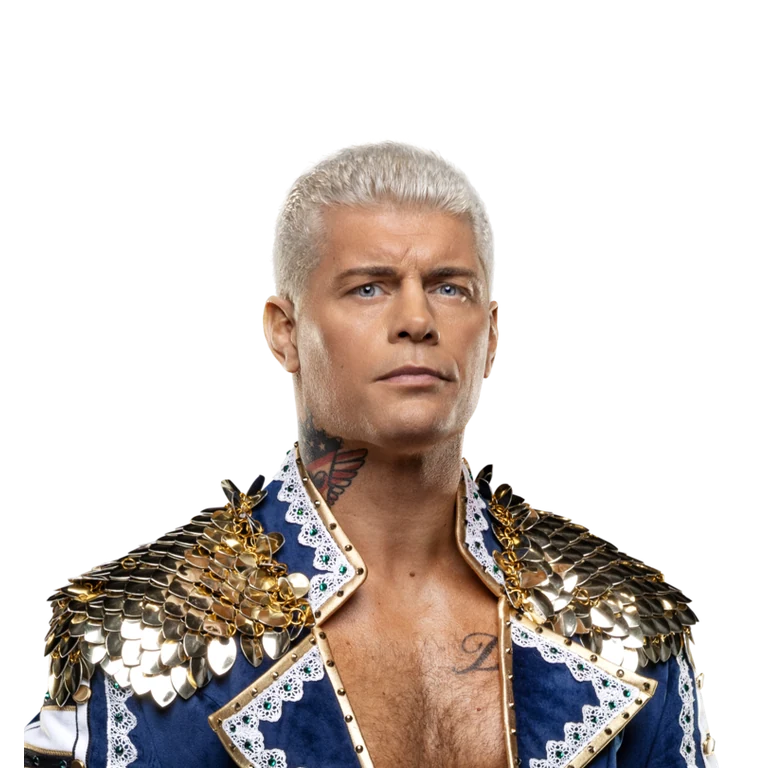
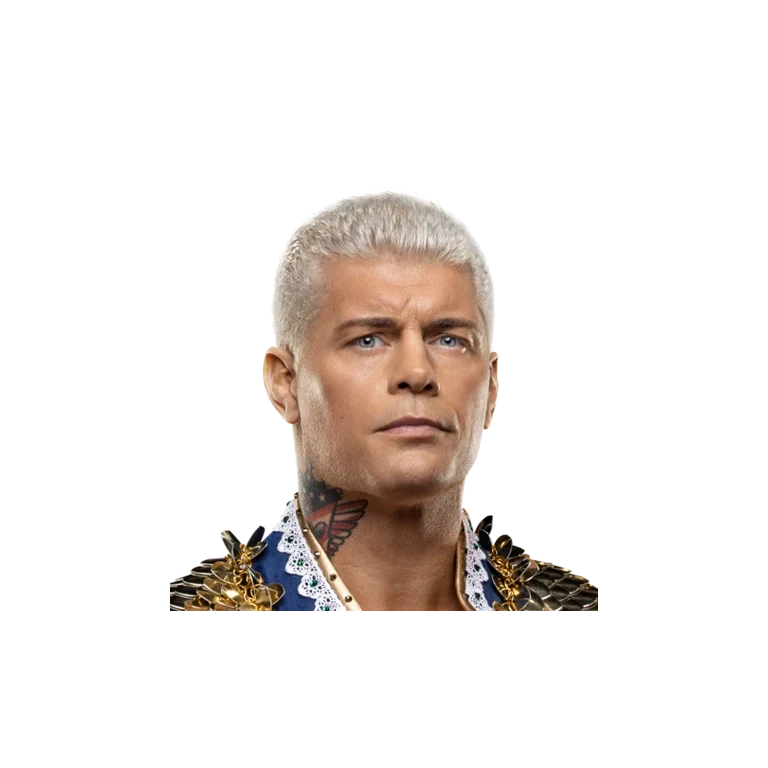
v6

diff --git a/game.js b/game.js
@@ -58,14 +58,30 @@ function playability(k,f){
 }
 function sortHand(f){
   const order=f.hand.map((k,i)=>({k,i,p:playability(k,f).ok}));
-  order.sort((a,b)=>Number(b.p)-Number(a.p)||a.i-b.i);f.hand=order.map(x=>x.k);
+  order.sort((a,b)=>{
+    const ap=Number(a.p),bp=Number(b.p); if(bp!==ap)return bp-ap;
+    const ac=C[a.k],bc=C[b.k];
+    const apr=ap&&ac?.finisher?3:ap&&ac?.tags?.includes('signature')?2:0;
+    const bpr=bp&&bc?.finisher?3:bp&&bc?.tags?.includes('signature')?2:0;
+    return bpr-apr||a.i-b.i;
+  });f.hand=order.map(x=>x.k);
 }
-function useCard(f,index){const key=f.hand.splice(index,1)[0];f.discard.push(key);if(C[key]?.once)f.usedOnce.add(key);drawCard(f);return key}
+function useCard(f,index){const key=f.hand.splice(index,1)[0];f.discard.push(key);if(C[key]?.once)f.usedOnce.add(key);if(f.hand.length<5)drawCard(f);return key}
 function defenderDraw(defender,attackKey){
   const forceReversal=opponentOf(defender).chain>=3;
   const pref=forceReversal?(k=>beginsWithCounter(k,attackKey)):null;
-  drawCard(defender,pref);sortHand(defender);
+  if(defender.hand.length<5)drawCard(defender,pref);sortHand(defender);
 }
+
+function animatePlayedCard(key,owner,done){
+  const c=C[key],stage=document.createElement('div');
+  stage.className=`playAnimation owner-${owner} type-${String(c.type||'other').toLowerCase()} ${c.finisher?'is-finisher':c.tags?.includes('signature')?'is-signature':''}`;
+  stage.innerHTML=`${c.image?`<div class="playAnimationArt" style="background-image:url('${c.image}')"></div>`:''}<strong>${c.name}</strong>`;
+  document.body.appendChild(stage);
+  requestAnimationFrame(()=>stage.classList.add('active'));
+  setTimeout(()=>{stage.classList.add('land');setTimeout(()=>{stage.remove();done?.()},220)},520);
+}
+
 function pushPile(key,owner,status='pending'){state.pile.push({key,owner,status,id:Date.now()+Math.random()});state.pile=state.pile.slice(-6);renderPile()}
 function setPileStatus(status){if(state.pile.length)state.pile[state.pile.length-1].status=status;renderPile()}
 function startMatch(playerId){
@@ -88,11 +104,14 @@ function flashSuccess(){setPileStatus('success');setTimeout(()=>{if(!state?.ende
 function matchingReversalIndex(defender,attackKey){return defender.hand.findIndex(k=>beginsWithCounter(k,attackKey)&&basicPlayability(k,defender).ok)}
 function playerAttack(index){
   if(state.ended||state.possession!=='player')return;sortHand(state.player);const p=playability(state.player.hand[index],state.player);if(!p.ok){say(p.why);return}
-  const key=useCard(state.player,index),c=C[key];pushPile(key,'player','pending');sortHand(state.player);renderHand();
-  if(isAction(key)){const text=resolveCard(state.player,state.cpu,key);flashSuccess();say(text);renderMatch();return}
-  const ri=matchingReversalIndex(state.cpu,key);
-  if(ri>=0){const rkey=useCard(state.cpu,ri);setTimeout(()=>{pushPile(rkey,'cpu','reversal');const text=resolveCard(state.cpu,state.player,rkey,{reversal:true});transferPossession('cpu',text)},350);return}
-  state.player.chain++;const text=resolveCard(state.player,state.cpu,key);flashSuccess();say(text);afterSuccessfulMove(state.player,state.cpu);renderMatch();
+  const key=useCard(state.player,index);sortHand(state.player);renderHand();
+  animatePlayedCard(key,'player',()=>{
+    if(state.ended)return;const c=C[key];pushPile(key,'player','pending');
+    if(isAction(key)){const text=resolveCard(state.player,state.cpu,key);flashSuccess();say(text);renderMatch();return}
+    const ri=matchingReversalIndex(state.cpu,key);
+    if(ri>=0){const rkey=useCard(state.cpu,ri);animatePlayedCard(rkey,'cpu',()=>{pushPile(rkey,'cpu','reversal');const text=resolveCard(state.cpu,state.player,rkey,{reversal:true});transferPossession('cpu',text)});return}
+    state.player.chain++;const text=resolveCard(state.player,state.cpu,key);flashSuccess();say(text);afterSuccessfulMove(state.player,state.cpu);renderMatch();
+  });
 }
 function afterSuccessfulMove(actor,opp){
   if(state.ended)return;
@@ -106,16 +125,19 @@ function cpuSequence(){
   if(!options.length){drawCard(state.cpu,k=>(C[k].cost||0)===0&&!isReversal(k));sortHand(state.cpu);options=state.cpu.hand.map((k,i)=>({k,i,p:playability(k,state.cpu)})).filter(x=>x.p.ok)}
   if(!options.length){transferPossession('player',`${W[state.cpu.id].shortName} cannot continue the sequence.`);return}
   options.forEach(o=>{const c=C[o.k];o.score=(c.damage||0)*1.5+(c.momentum||0)+Math.random()*10+(c.finisher&&state.player.health<45?70:0)-(isAction(o.k)&&state.cpu.actionUsed?100:0)});options.sort((a,b)=>b.score-a.score);
-  const pick=options[0],key=useCard(state.cpu,pick.i);pushPile(key,'cpu','pending');sortHand(state.cpu);
-  if(isAction(key)){const text=resolveCard(state.cpu,state.player,key);flashSuccess();say(text);renderMatch();cpuTimer=setTimeout(cpuSequence,600);return}
-  state.pendingAttack={key};const has=matchingReversalIndex(state.player,key)>=0;say(`${W[state.cpu.id].shortName} plays ${C[key].name}.${has?' Play a matching reversal.':''}`);renderMatch();if(!has)cpuTimer=setTimeout(resolveCpuAttack,700);
+  const pick=options[0],key=useCard(state.cpu,pick.i);sortHand(state.cpu);
+  animatePlayedCard(key,'cpu',()=>{
+    if(state.ended)return;pushPile(key,'cpu','pending');
+    if(isAction(key)){const text=resolveCard(state.cpu,state.player,key);flashSuccess();say(text);renderMatch();cpuTimer=setTimeout(cpuSequence,600);return}
+    state.pendingAttack={key};const has=matchingReversalIndex(state.player,key)>=0;say(`${W[state.cpu.id].shortName} plays ${C[key].name}.${has?' Play a matching reversal.':''}`);renderMatch();if(!has)cpuTimer=setTimeout(resolveCpuAttack,700);
+  });
 }
 function resolveCpuAttack(){
   if(!state.pendingAttack||state.ended)return;const key=state.pendingAttack.key;state.pendingAttack=null;state.cpu.chain++;const text=resolveCard(state.cpu,state.player,key);flashSuccess();say(text);afterSuccessfulMove(state.cpu,state.player);renderMatch();if(!state.ended&&!shouldPin(state.cpu,state.player))cpuTimer=setTimeout(cpuSequence,650)
 }
 function playerReverse(index){
   if(!state.pendingAttack||state.possession!=='cpu')return;sortHand(state.player);const p=playability(state.player.hand[index],state.player);if(!p.ok)return;
-  const key=useCard(state.player,index);pushPile(key,'player','reversal');state.pendingAttack=null;const text=resolveCard(state.player,state.cpu,key,{reversal:true});transferPossession('player',text)
+  const key=useCard(state.player,index);state.pendingAttack=null;animatePlayedCard(key,'player',()=>{pushPile(key,'player','reversal');const text=resolveCard(state.player,state.cpu,key,{reversal:true});transferPossession('player',text)})
 }
 function transferPossession(to,reason){
   clearTimeout(cpuTimer);state.possession=to;state.pendingAttack=null;state.player.chain=0;state.cpu.chain=0;state.player.actionUsed=false;state.cpu.actionUsed=false;if(reason)say(reason);
@@ -134,7 +156,7 @@ function endMatch(winner){clearTimeout(cpuTimer);state.ended=true;const loser=op
 function say(t){state.log.unshift(t);state.log=state.log.slice(0,14);$('#message').textContent=t;renderLog()}
 function renderLog(){$('#log').innerHTML=state.log.map(t=>`<div>${t}</div>`).join('')}
 function cardMarkup(k,i){
-  const c=C[k],p=playability(k,state.player),cls=`gameCard type-${String(c.type||'other').toLowerCase()} ${p.ok?'':'unplayable'} ${c.image?'hasArt':''}`;
+  const c=C[k],p=playability(k,state.player),cls=`gameCard type-${String(c.type||'other').toLowerCase()} ${p.ok?'':'unplayable'} ${c.image?'hasArt':''} ${c.finisher?'is-finisher':c.tags?.includes('signature')?'is-signature':''}`;
   const stat=(label,val)=>`<div class="cardStat"><span>${label}</span><b>${val}</b></div>`;
   return `<button class="${cls}" data-card="${i}" ${p.ok?'':'disabled'}>${c.image?`<div class="cardArt" style="background-image:url('${c.image}')"></div>`:''}<h4>${c.name}</h4>${!p.ok?`<div class="requirement">${p.why}</div>`:''}<div class="cardStats">${stat('DMG',c.damage||0)}${stat('MOM',(c.momentum||0)>=0?`+${c.momentum||0}`:c.momentum)}${stat('COST',c.cost||0)}</div></button>`;
 }

diff --git a/index.html b/index.html
@@ -1,5 +1,5 @@
-<!doctype html><html lang="en"><head><meta charset="utf-8"><meta name="viewport" content="width=device-width,initial-scale=1,viewport-fit=cover"><meta name="theme-color" content="#0b0d11"><title>LEGACY Wrestling Cards</title><link rel="manifest" href="manifest.webmanifest"><link rel="icon" href="favicon.ico"><link rel="stylesheet" href="styles.css?v=0.6.0"></head><body>
-<div id="app"><section id="menu" class="screen active"><img class="logo" src="assets/branding/lpw-logo-main-menu-1200.webp" alt="LEGACY Wrestling Cards"><h1>WRESTLING CARDS</h1><p class="lead">A tactical card-based wrestling match.</p><button id="startBtn" class="primary">Exhibition 1v1</button><div class="version">v0.6.0</div></section>
+<!doctype html><html lang="en"><head><meta charset="utf-8"><meta name="viewport" content="width=device-width,initial-scale=1,viewport-fit=cover"><meta name="theme-color" content="#0b0d11"><title>LEGACY Wrestling Cards</title><link rel="manifest" href="manifest.webmanifest"><link rel="icon" href="favicon.ico"><link rel="stylesheet" href="styles.css?v=0.6.1"></head><body>
+<div id="app"><section id="menu" class="screen active"><img class="logo" src="assets/branding/lpw-logo-main-menu-1200.webp" alt="LEGACY Wrestling Cards"><h1>WRESTLING CARDS</h1><p class="lead">A tactical card-based wrestling match.</p><button id="startBtn" class="primary">Exhibition 1v1</button><div class="version">v0.6.1</div></section>
 <section id="select" class="screen"><header><button class="ghost" data-back="menu">← Back</button><h2>Choose Your Wrestler</h2></header><div id="roster" class="roster"></div></section>
 <section id="match" class="screen"><header class="matchHeader"><button id="quitBtn" class="ghost">Quit</button><div id="phaseBadge" class="phase">Opening</div><div id="turnLabel">Your turn</div></header><div class="arena">
 <div class="fighter player"><img id="playerPortrait"><div><h2 id="playerName"></h2><div class="meterRow"><span>Health</span><b id="playerHealthText"></b></div><div class="meter"><i id="playerHealthBar"></i></div><div class="meterRow"><span>Momentum</span><b id="playerMomentumText"></b></div><div class="meter momentum"><i id="playerMomentumBar"></i></div></div></div>
@@ -7,4 +7,4 @@
 <div class="fighter cpu"><img id="cpuPortrait"><div><h2 id="cpuName"></h2><div class="meterRow"><span>Health</span><b id="cpuHealthText"></b></div><div class="meter"><i id="cpuHealthBar"></i></div><div class="meterRow"><span>Momentum</span><b id="cpuMomentumText"></b></div><div class="meter momentum"><i id="cpuMomentumBar"></i></div></div></div></div>
 <div id="message" class="message"></div><div class="pileZone"><div id="playedPile" class="playedPile"><div class="pileEmpty">Played pile</div></div></div><div class="handHeader"><div><h3 id="handTitle">Your Attack</h3><p id="handHelp">Keep playing until your opponent reverses you.</p></div><div class="handActions"><button id="pinBtn" class="primary compact" hidden>Pin / Pass</button><button id="redrawBtn" class="ghost">Keep Hand</button></div></div><div id="hand" class="hand"></div><details class="logWrap"><summary>Match Feed</summary><div id="log" class="log"></div></details></section>
 <section id="result" class="screen"><div class="resultCard"><img id="winnerPortrait"><div class="eyebrow">Match Result</div><h1 id="winnerName"></h1><p id="resultSummary"></p><div id="rating" class="rating"></div><button id="rematchBtn" class="primary">Rematch</button><button class="ghost" data-back="menu">Main Menu</button></div></section></div>
-<script src="data.js?v=0.6.0"></script><script src="game.js?v=0.6.0"></script><script src="update-manager.js?v=0.6.0"></script></body></html>
+<script src="data.js?v=0.6.1"></script><script src="game.js?v=0.6.1"></script><script src="update-manager.js?v=0.6.1"></script></body></html>

diff --git a/styles.css b/styles.css
@@ -352,3 +352,33 @@
   #match .gameCard h4{font-size:.86rem}
   #match .gameCard .cardStats{grid-template-columns:repeat(3,1fr)}
 }
+
+/* v0.6.1 premium mobile presentation */
+.gameCard.is-signature{box-shadow:0 0 0 1px #64c9ff88,0 0 22px #2b8fff80,0 12px 28px #000b}
+.gameCard.is-finisher{box-shadow:0 0 0 1px #ffd65a99,0 0 28px #ffc933b8,0 12px 30px #000c;animation:finisherPulse 1.55s ease-in-out infinite}
+@keyframes finisherPulse{50%{filter:brightness(1.16);box-shadow:0 0 0 2px #ffe47a,0 0 38px #ffc400d6,0 12px 30px #000c}}
+.playAnimation{position:fixed;z-index:9999;left:50%;top:54%;width:min(62vw,310px);aspect-ratio:5/7;transform:translate(-50%,85vh) scale(.75) rotate(-5deg);opacity:0;border:4px solid #596273;border-radius:20px;background:linear-gradient(145deg,#252d3a,#0b0e14);overflow:hidden;box-shadow:0 30px 80px #000;pointer-events:none;transition:transform .5s cubic-bezier(.2,.9,.2,1),opacity .22s}
+.playAnimation.owner-cpu{transform:translate(-50%,-85vh) scale(.75) rotate(5deg)}
+.playAnimation.active{opacity:1;transform:translate(-50%,-50%) scale(1) rotate(0)}
+.playAnimation.land{transform:translate(-50%,-50%) scale(.52);opacity:.15}
+.playAnimationArt{position:absolute;inset:0;background-size:contain;background-position:center;background-repeat:no-repeat}
+.playAnimation strong{position:absolute;top:12px;left:12px;right:12px;padding:10px 12px;background:#05070bd9;border-radius:10px;font-size:1.2rem;z-index:2}
+.playAnimation.is-signature{border-color:#4daeff;box-shadow:0 0 45px #258dff,0 30px 80px #000}
+.playAnimation.is-finisher{border-color:#ffd34d;box-shadow:0 0 55px #ffc400,0 30px 80px #000}
+@media(max-width:850px){
+  #match{background:radial-gradient(circle at 50% -10%,#243653 0,#101722 38%,#070a0f 76%)}
+  #match .matchHeader{padding:3px 2px 7px;border-bottom:1px solid #ffffff16}
+  #match .arena{margin:10px auto 6px;gap:8px}
+  #match .fighter{background:linear-gradient(180deg,#1c2431e8,#10151de8);border-color:#4b5870;border-radius:20px;box-shadow:inset 0 1px #ffffff12,0 10px 28px #0007}
+  #match .fighter img{height:116px;width:100%;object-fit:contain;filter:drop-shadow(0 8px 10px #0009)}
+  #match .message{background:linear-gradient(90deg,#151c27,#0d1219);border-left-width:4px;box-shadow:0 8px 22px #0007}
+  #match .handHeader{margin-top:10px}
+  #match .hand{gap:12px;padding:8px 14px 13px;scroll-padding-left:14px}
+  #match .gameCard{flex-basis:min(70vw,275px);min-height:385px;border-radius:20px;box-shadow:inset 0 1px #ffffff16,0 14px 30px #0009}
+  #match #playedPile{filter:drop-shadow(0 12px 18px #0009)}
+}
+@media(max-width:520px){
+  #match .fighter img{height:124px;transform:scale(1.12)}
+  #match .fighter h2{font-size:1rem;margin-top:3px}
+  #match .gameCard{flex-basis:72vw;min-height:390px}
+}

diff --git a/service-worker.js b/service-worker.js
@@ -1,4 +1,4 @@
-const CACHE='legacy-wrestling-cards-0.6.0';
+const CACHE='legacy-wrestling-cards-0.6.1';
 const CORE=["./","index.html","styles.css","data.js","game.js","update-manager.js","manifest.webmanifest","assets/branding/lpw-logo-main-menu-1200.webp","assets/branding/lpw-logo-compact-400.webp","assets/wrestlers/cody-rhodes/portrait.webp","assets/wrestlers/roman-reigns/portrait.webp","assets/wrestlers/cody-rhodes/cards/bellyToBackSuplex.webp","assets/wrestlers/cody-rhodes/cards/clothesline.webp","assets/wrestlers/cody-rhodes/cards/elbowBackHead.webp","assets/wrestlers/cody-rhodes/cards/wheelbarrowBulldog.webp","assets/wrestlers/roman-reigns/cards/bellyToBackSuplex.webp","assets/wrestlers/roman-reigns/cards/camelClutch.webp","assets/wrestlers/roman-reigns/cards/clothesline.webp","assets/wrestlers/roman-reigns/cards/flyingClothesline.webp","assets/wrestlers/roman-reigns/cards/rearChinLock.webp"];
 self.addEventListener('install',e=>{self.skipWaiting();e.waitUntil(caches.open(CACHE).then(c=>c.addAll(CORE)))});
 self.addEventListener('activate',e=>e.waitUntil(Promise.all([self.clients.claim(),caches.keys().then(keys=>Promise.all(keys.filter(k=>k!==CACHE).map(k=>caches.delete(k))))])));

diff --git a/update-manager.js b/update-manager.js
@@ -1,5 +1,5 @@
 (() => {
-  const RUNNING='0.6.0';
+  const RUNNING='0.6.1';
   async function check(){
     try{
       const r=await fetch(`version.json?ts=${Date.now()}`,{cache:'no-store'});
@@ -14,6 +14,6 @@
   }
   window.addEventListener('load',async()=>{
     await check();
-    if('serviceWorker'in navigator){try{const reg=await navigator.serviceWorker.register('service-worker.js?v=0.6.0',{updateViaCache:'none'});await reg.update()}catch(e){}}
+    if('serviceWorker'in navigator){try{const reg=await navigator.serviceWorker.register('service-worker.js?v=0.6.1',{updateViaCache:'none'});await reg.update()}catch(e){}}
   });
 })();

diff --git a/data.js b/data.js
@@ -1,5 +1,5 @@
 window.LWC_DATA = {
-  version: '0.6.0',
+  version: '0.6.1',
   wrestlers: {
     cody: {
       id: 'cody', name: 'Cody Rhodes', shortName: 'Cody', era: '2026',

diff --git a/README.md b/README.md
@@ -1,30 +1,12 @@
-# LEGACY Wrestling Cards v0.6.0
+# LEGACY Wrestling Cards v0.6.1
 
-Mobile card-chain prototype featuring Cody Rhodes and Roman Reigns.
+Premium mobile presentation update.
 
-## v0.6.0
-- Central played-card pile above the hand.
-- Played attacks move to the pile and replacement cards append to the right of the hand.
-- Matching reversals stack over the attack and transfer possession.
-- Unreversed cards display SUCCESS and allow the attacking sequence to continue.
-- Accuracy removed; an attack succeeds unless reversed.
-- Action cards use yellow borders.
-- Opening hand always contains two zero-cost cards, one grapple, one reversal and one random card.
-- The opening player does not receive a discard phase on turn one.
-- Later possessions retain the choose-any-number discard and redraw phase.
-- Card stats reduced to Damage, Momentum and Cost at the bottom.
-
-## v0.6.0 match-system changes
-- Removed the manual discard/refresh phase.
-- Wrestlers begin with five cards; hands can grow without a five-card cap.
-- Every connected damaging move gives the defending wrestler one extra card.
-- The attacker draws a replacement at the right end of the hand after playing a card.
-- Playable cards are automatically sorted to the front while preserving relative order.
-- Uses a real shuffled deck, discard pile, and reshuffle cycle with one copy of each card.
-- Added Cody Rhodes signature/finisher cards: Disaster Kick, Cody Cutter, Cross Rhodes.
-- Added Roman Reigns signature/finisher cards: Superman Punch, Spear, Guillotine Choke.
-- Both player and CPU now attempt pins; zero health creates a 98% pin chance rather than automatic victory.
-- Reversals use the same cost, damage, momentum, crowd, control, and draw-resolution path as normal cards.
-- After three connected moves in one possession, the defender's bonus draw prioritises a matching reversal.
-- Action cards are limited to one per possession.
-- Removed obsolete Austin and Rock card definitions.
+- A wrestler only draws when their hand contains fewer than five cards.
+- Playing a card replenishes the hand back toward five; connected moves do not push the defender above five.
+- Playable cards remain at the front of the hand.
+- Playable finishers are sorted first, followed by playable signature moves.
+- Signature cards use a blue glow and finishers use an animated gold glow.
+- Played cards expand prominently on screen and animate into the central pile.
+- Cody Rhodes and Roman Reigns portraits are cropped to head-and-neck framing.
+- Match HUD, cards, shadows, surfaces and spacing received additional mobile polish.
